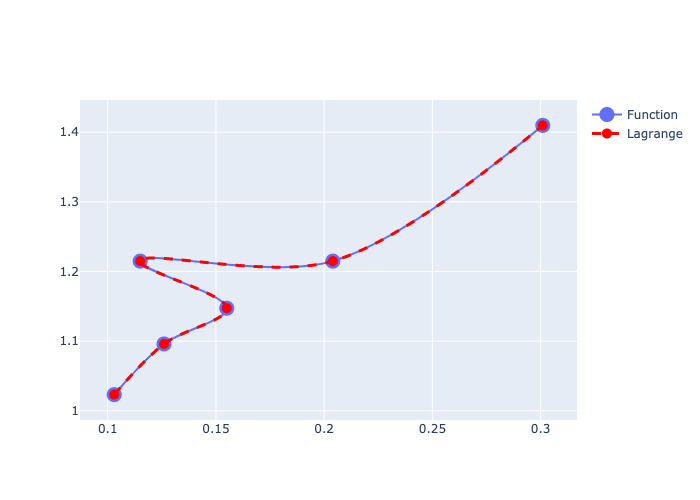
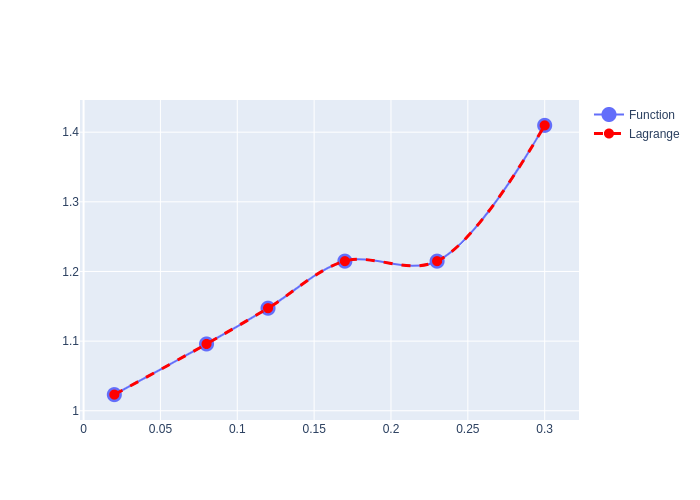
Fix tables

diff --git a/lab-1/lab.py b/lab-1/lab.py
@@ -2,20 +2,21 @@ from prettytable import PrettyTable
 import plotly.graph_objects as go
 import math
 
-def lagrange(xn, func, x):
+def lagrange(xn, fn, x):
     result = 0
+    size = len(x)
 
-    for j in range(len(xn)):
+    for j in range(size):
         numerator = 1
         denominator = 1
 
-        for i in range(len(xn)):
+        for i in range(size):
             if j != i:
-                numerator *= x - xn[i]
-                denominator *= xn[j] - xn[i]
+                numerator *= xn - x[i]
+                denominator *= x[j] - x[i]
 
         fraction = numerator / denominator
-        result += func * fraction
+        result += fn * fraction
 
     return result
 
@@ -35,26 +36,26 @@ def lagrange_array(xn, fn, x):
     results = []
 
     table = PrettyTable()
-    table.field_names = ["n", "Fn", "X", "Pn"]
+    table.field_names = ["n", "Xn", "Fn", "Pn"]
 
     table_xn = PrettyTable()
-    table_xn.field_names = ["Xn"]
+    table_xn.field_names = ["X"]
 
     for n in range(len(xn)):
-        result = lagrange(xn, fn[n], x[n])
+        result = lagrange(xn[n], fn[n], x)
 
         results.append(result)
-        table.add_row([n, fn[n], x[n], result])
+        table.add_row([n, xn[n], fn[n], result])
 
-    xn = [round(num, 5) for num in xn]
-    table_xn.add_row([xn])
+    x = [round(num, 5) for num in x]
+    table_xn.add_row([x])
 
     print(table)
     print(table_xn)
 
     fig = go.Figure()
-    fig.add_trace(go.Scatter(x=x, y=fn, name="Function", mode='lines+markers', marker=dict(size=15), line_shape='spline'))
-    fig.add_trace(go.Scatter(x=x, y=results, name="Lagrange", line_shape='spline', marker=dict(size=10), line=dict(color='red', width=3, dash='dash')))
+    fig.add_trace(go.Scatter(x=xn, y=fn, name="Function", mode='lines+markers', marker=dict(size=15), line_shape='spline'))
+    fig.add_trace(go.Scatter(x=xn, y=results, name="Lagrange", line_shape='spline', marker=dict(size=10), line=dict(color='red', width=3, dash='dash')))
     fig.show()
     fig.write_image("lagrange.png")
 
